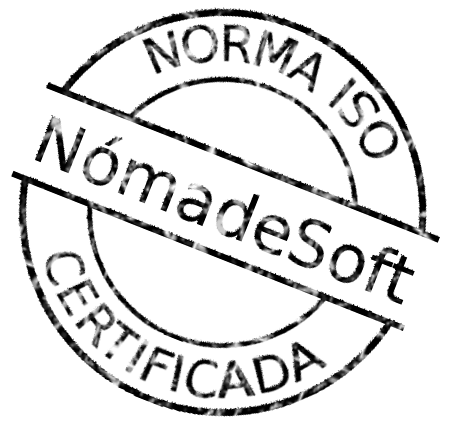
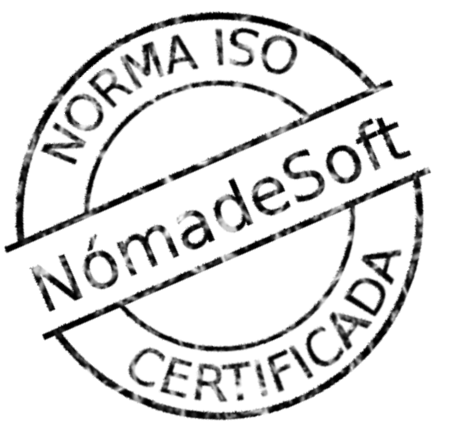
Cambios estéticos.
Cambio la imagen del sello para que quede inclinada para el otro lado.
Cambio el tamaño del margen de los párrafos de nosotros y calidad.

Changed region(s): [[0.0, 0.0, 0.9933, 0.9839]]

diff --git a/recursos/css/vellese.css b/recursos/css/vellese.css
@@ -113,8 +113,8 @@
 }
 
 .ns-seccion_parrafos{
-    margin-top: 45px;
-    margin-bottom: 45px;
+    margin-top: 10px;
+    margin-bottom: 10px;
 }
 
 .ns-carrusel_text {
